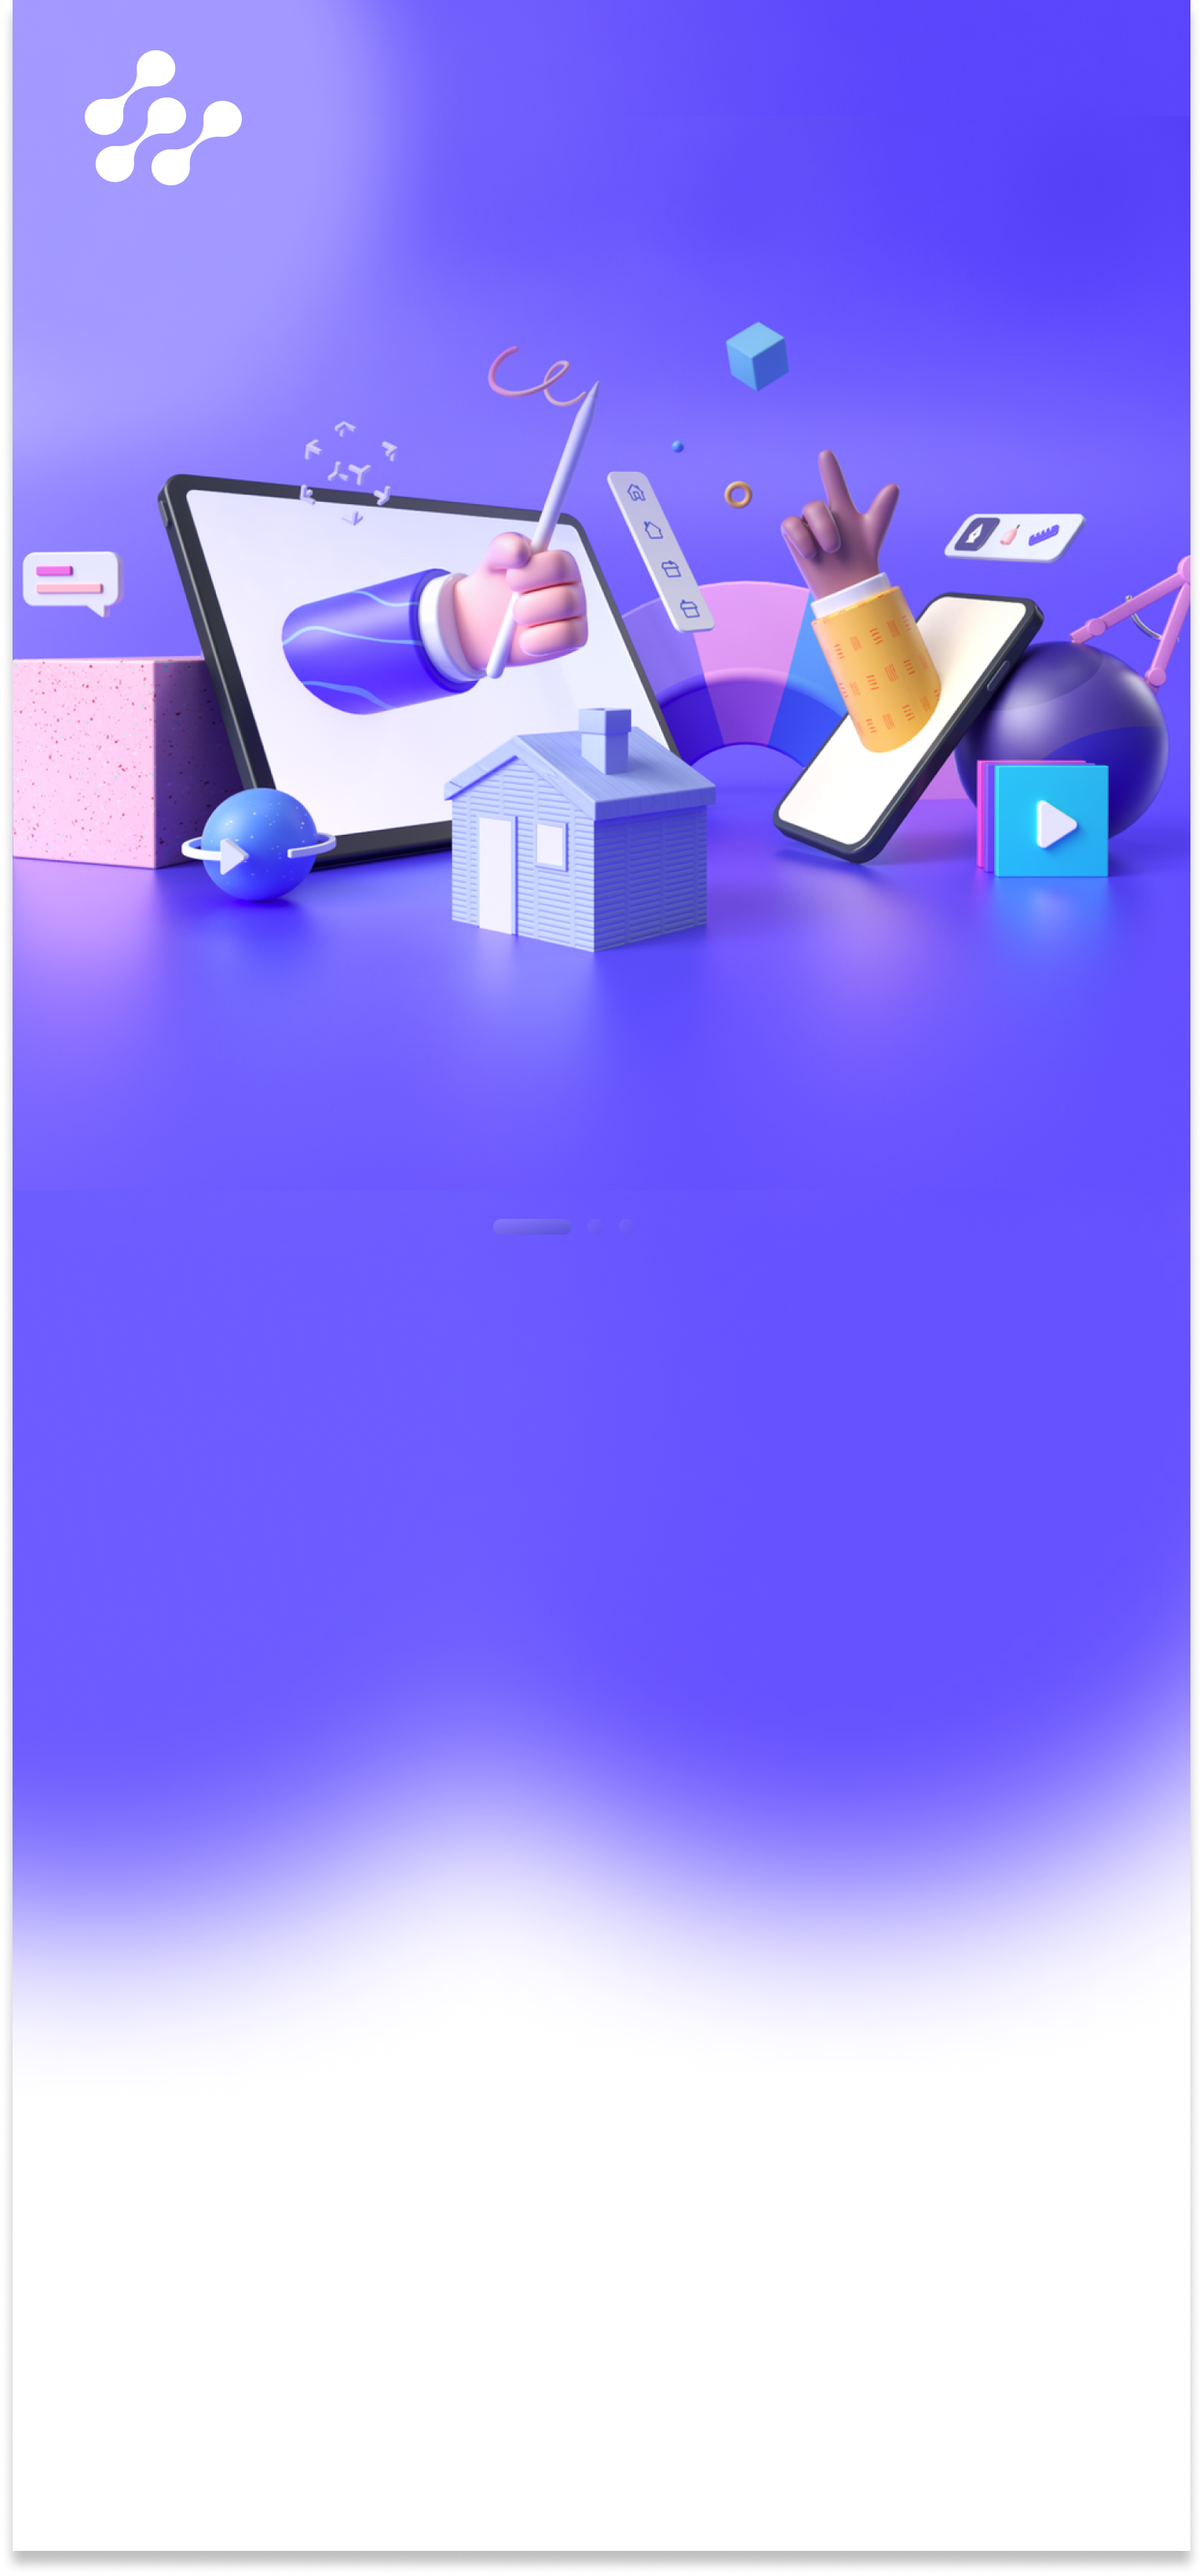
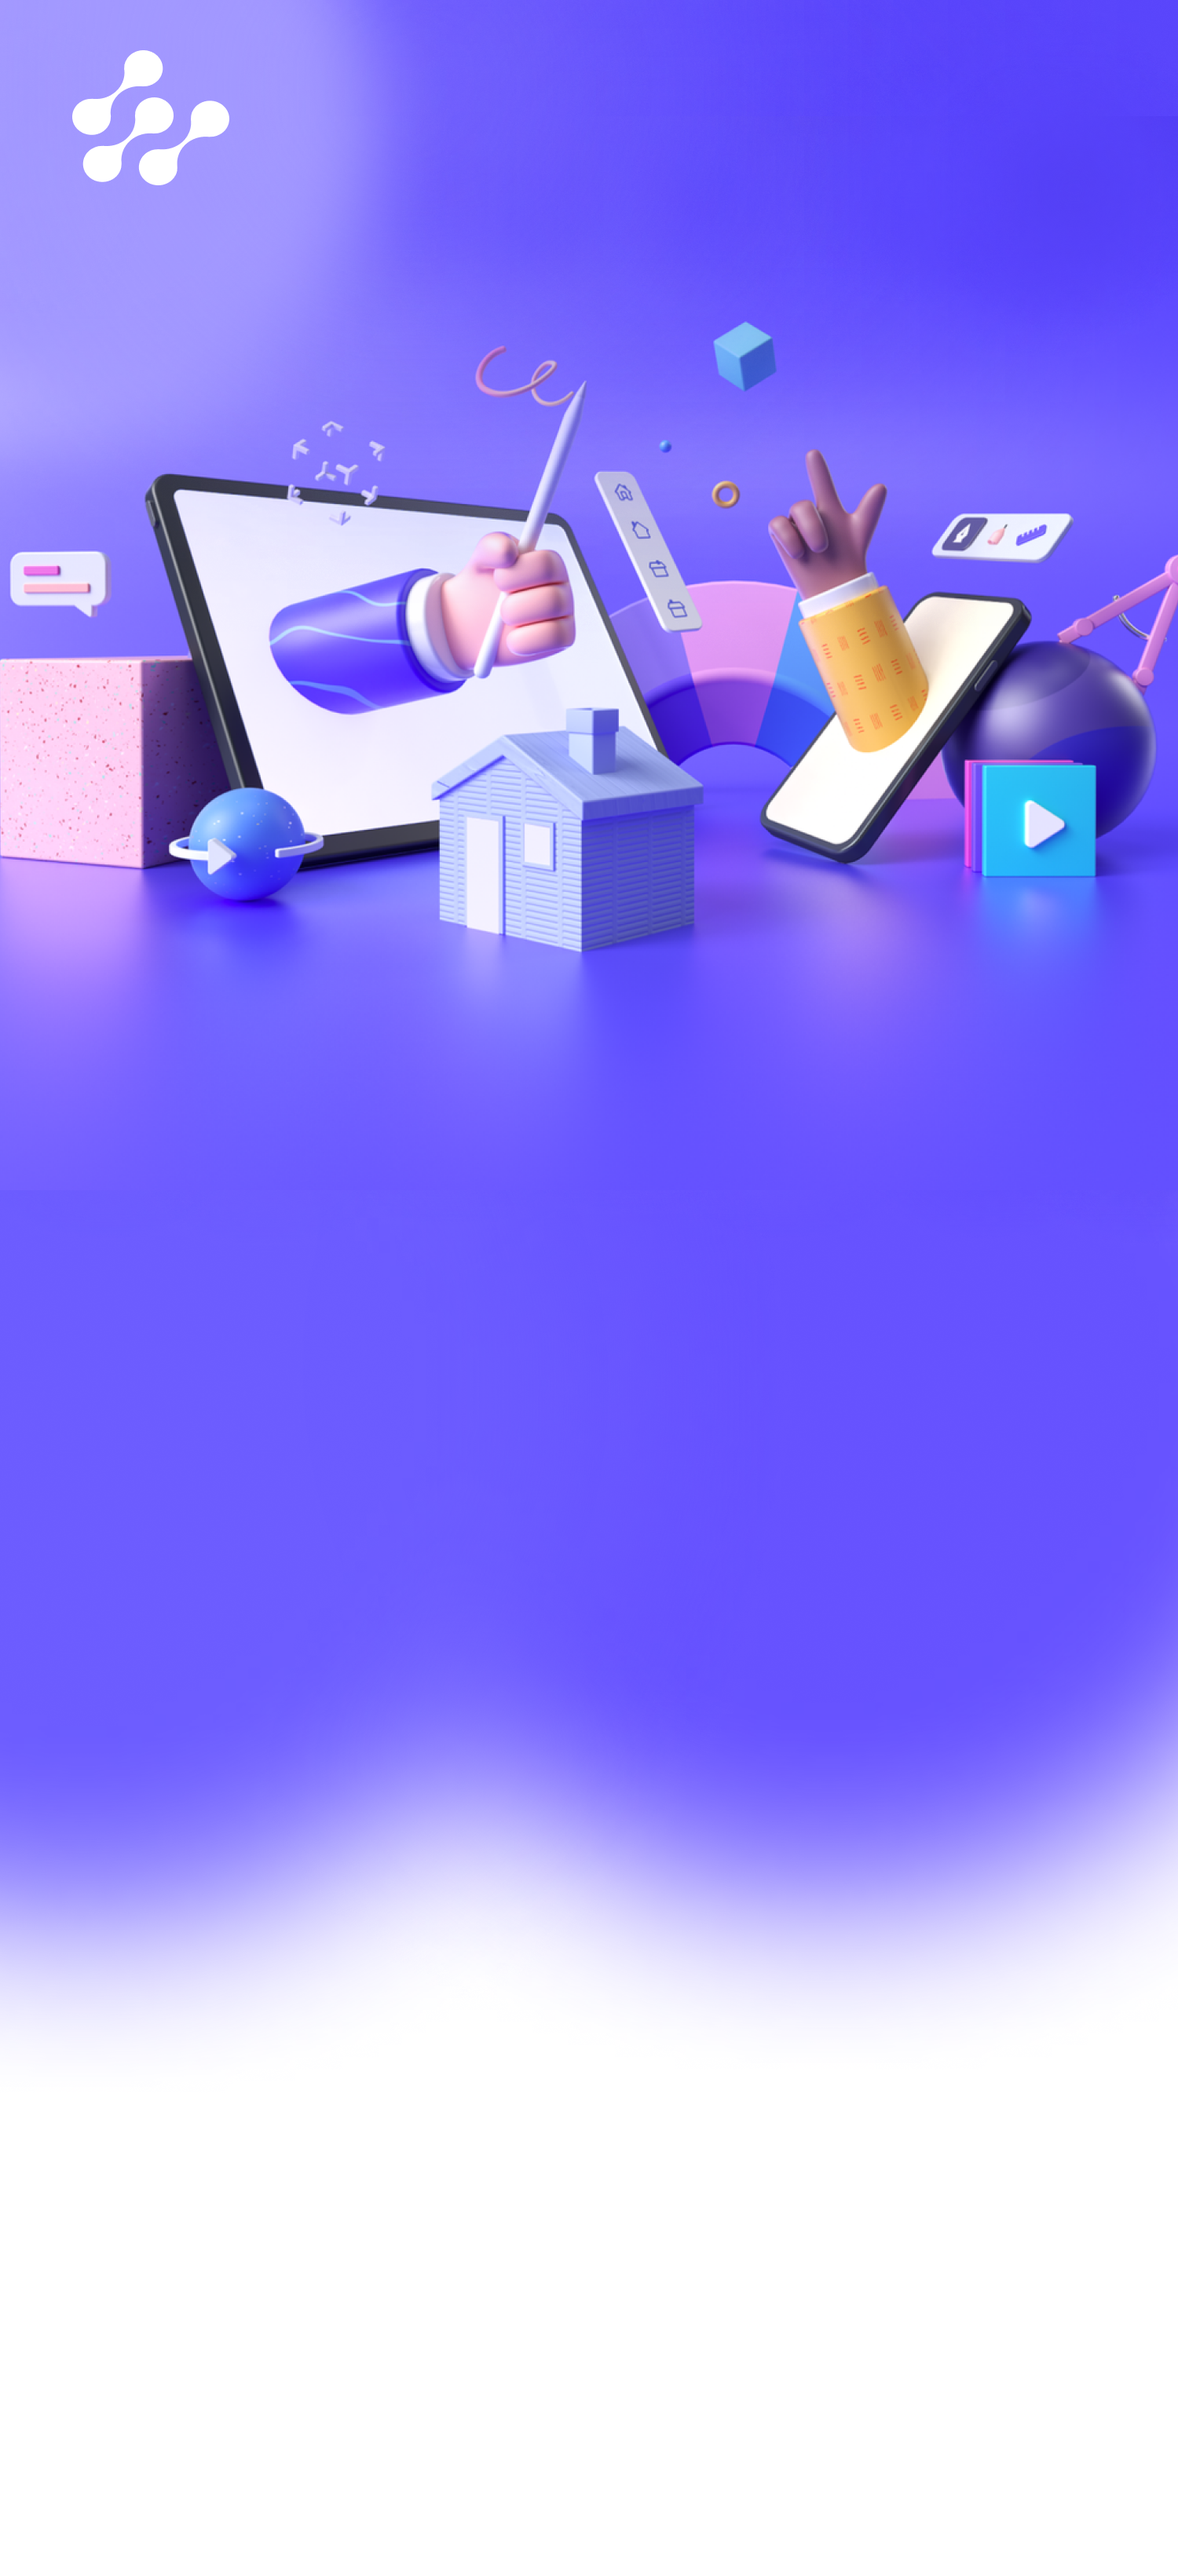
feat: 온보딩 화면 슬라이드 구현 완료

diff --git a/src/pages/Onboarding.js b/src/pages/Onboarding.js
@@ -1,0 +1,224 @@
+import React, { useState, useRef, useEffect } from "react";
+import { useNavigate } from "react-router-dom";
+import styled, { css, keyframes } from 'styled-components';
+import OnboardItem from "../components/OnboardItem";
+
+const onboardItemList = [
+    {
+        OnboardImgSrc: process.env.PUBLIC_URL + `assets/images/onboard-background.png`,
+        title: `Task Management`,
+        prevDesc: `Let's create a `,
+        colorDesc: `space`,
+        nextDesc: ` for your workflows.`
+    },
+    {
+        OnboardImgSrc: process.env.PUBLIC_URL + `assets/images/onboard-background2.png`,
+        title: 'Task Management',
+        prevDesc: `Work more `,
+        colorDesc: `Structured`,
+        nextDesc: ` and Organized 👌`
+    },
+    {
+        OnboardImgSrc: process.env.PUBLIC_URL + `assets/images/onboard-background3.png`,
+        title: 'Task Management',
+        prevDesc: `Manage your `,
+        colorDesc: `Tasks`,
+        nextDesc: ` quickly for Results✌`
+    }
+]
+
+const slideNextAnimation = keyframes`
+0% {
+  opacity: 1;
+  transform: translateX(0vw);
+}
+
+100%{
+  opacity: 1;
+  transform: translateX(-100vw);
+}
+`;
+
+const Onboard = styled.div`
+`;
+
+const OnePageOnboardItem = styled(OnboardItem)`
+    width: 100vw;
+    height: 81.5vh;
+    position: absolute;
+    left: 0;
+    top:0;
+    visibility: visible; 
+
+    &.slide-next {
+        visibility: hidden; 
+    }
+
+`;
+
+const SlideContainer = styled.div`
+    display: flex;
+    width: 300vw;
+    height: 81.5vh;
+    position: relative;
+    left: -100vw;
+    visibility: hidden;  
+    
+    z-index: 3;
+
+    &.slide-next {
+        visibility: visible; 
+        animation: ${slideNextAnimation} 2s forwards;
+        animation-timing-function: cubic-bezier(0.645, 0.045, 0.355, 1.000); 
+    }
+
+`;
+
+const SliderButtons = styled.div`
+    width: 50px;
+    height: 8px;
+    display: flex;
+    justify-content: space-between;
+    margin: 25px 0px 0px 30px;
+`;
+
+const SliderButton = styled.button`
+    border: none;
+    border-radius: 4px;
+    width: 8px;
+    height: 8px;
+    padding: 0;
+
+    ${({ current }) => {
+        return current &&
+            (
+                css`
+                    width: 20px;
+                    background: #756EF3;  
+                `
+            )
+    }
+    }
+`;
+
+const SkipButton = styled.button`
+    color: #002055;
+    text-align: center;
+    font-family: Poppins;
+    font-size: 14px;
+    font-style: normal;
+    font-weight: 400;
+    line-height: 24px; 
+    margin: 52px 0px 0px 30px;
+    border: none;
+    padding: 0;
+    background-color: transparent;
+`;
+
+const BottomBgImg = styled.img`
+    position: absolute;
+    bottom: 0px;
+    right: 0px;
+    width: 100px;
+`;
+
+const NextButton = styled.button`
+    position: absolute;
+    bottom: 42px;
+    right: 21px;
+    width: 24px;
+    height: 24px;
+    z-index: 2;
+    display: flex;
+    justify-content: center;
+    align-items: center;
+    border: none;
+    padding: 0;
+    background-color: transparent;
+`;
+
+const NextImg = styled.img`
+    width: 100%;
+    height: 100%;
+`;
+
+const Onboarding = () => {
+    const navigate = useNavigate();
+
+    const onboardItemRef = useRef();
+    const containerRef = useRef();
+
+    const [status, setStatus] = useState({
+        page: 0,
+        swipe: false
+    });
+    const [page, setPage] = useState(0);
+
+    useEffect(() => {
+        if (!onboardItemRef.current) return;
+
+        const callback = (entries) => {
+            entries.forEach((entry) => {
+                if (entry.isIntersecting) {
+                    setStatus((prev) => {
+                        return {
+                            page: prev.page + 1,
+                            swipe: false
+                        };
+                    });
+                }
+            });
+        }
+
+        const options = { root: null, rootMargin: "0px", threshold: 1 };
+        const observer = new IntersectionObserver(callback, options);
+        observer.observe(onboardItemRef.current);
+
+        return () => {
+            observer.disconnect();
+        };
+
+    }, []);
+
+    const handleSwipe = () => {
+        if (!status.swipe && ((page % 3) !== 2)) {
+            setStatus((prev) => {
+                return {
+                    ...prev,
+                    swipe: true
+                };
+            });
+            setPage(page + 1);
+        }
+
+        if (!status.swipe && ((page % 3) === 2)) {
+            navigate("/main");
+        }
+
+    };
+
+    return (
+        <Onboard>
+            <OnePageOnboardItem className={status.swipe && "slide-next"} {...onboardItemList[(page) % 3]} />
+            <SlideContainer className={status.swipe && "slide-next"} ref={containerRef}>
+                {onboardItemList.map((it, idx) => (
+                    <OnboardItem key={idx} {...onboardItemList[(idx + status.page + 2) % 3]} ref={(idx === 2) ? onboardItemRef : null} />
+                ))}
+            </SlideContainer>
+            <SliderButtons>
+                {onboardItemList.map((it, idx) => (
+                    <SliderButton key={idx} current={idx === (page % 3) ? true : false} />
+                ))}
+            </SliderButtons>
+            <SkipButton>
+                Skip
+            </SkipButton>
+            <NextButton onClick={handleSwipe} >
+                <NextImg src={`${process.env.PUBLIC_URL + 'assets/images/next-button.png'}`} alt="next button" />
+            </NextButton>
+            <BottomBgImg src={`${process.env.PUBLIC_URL + 'assets/images/onboard-bottom-background.png'}`} alt="bg img" />
+        </Onboard>
+    );
+};
+
+export default Onboarding;

diff --git a/src/components/OnboardItem.js b/src/components/OnboardItem.js
@@ -1,0 +1,58 @@
+import React, { forwardRef } from "react";
+import styled from 'styled-components';
+
+const OnboardDiv = styled.div`
+    position: relative;
+    width: 100vw;
+    height: 100%;
+`;
+
+const OnboardImg = styled.img`
+    position: absolute;
+    top: 0px;
+    left: 0px;
+    width: 100%;
+    z-index: -1;
+`;
+
+const Title = styled.div`
+    position: relative;
+    top: 75%;
+    color: #756EF3;
+    font-family: Poppins;
+    font-size: 18px;
+    font-style: normal;
+    font-weight: 500;
+    line-height: 18px;
+    margin: 0 0 0 30px;
+`;
+
+const Desc = styled.div`
+    position: relative;
+    top: calc(75% + 18px);
+    color: #002055;
+    font-family: Poppins;
+    font-size: 35px;
+    font-style: normal;
+    font-weight: 400;
+    line-height: 45px; 
+    margin: 0px 30px 0px 30px;
+`;
+
+const Color = styled.span`
+    color: #756EF3;
+    font-weight: 600;
+`;
+
+const OnboardItem = forwardRef(({ className, OnboardImgSrc, title, prevDesc, colorDesc, nextDesc }, ref) => {
+    return (
+        <OnboardDiv className={className} ref={ref}>
+            <OnboardImg src={OnboardImgSrc} />
+            <Title>{title}</Title>
+            <Desc>{prevDesc}<Color>{colorDesc}</Color>{nextDesc}</Desc>
+        </OnboardDiv>
+
+    );
+});
+
+export default OnboardItem;

diff --git a/src/App.js b/src/App.js
@@ -2,12 +2,16 @@ import { Route, Routes } from 'react-router-dom';
 
 import './App.css';
 import Start from './pages/Start';
+import Onboarding from './pages/Onboarding';
+import Home from './pages/Home';
 
 function App() {
   return (
     <div className="App">
       <Routes>
         <Route path="/" element={<Start />} />
+        <Route path="/onboarding" element={<Onboarding />} />
+        <Route path="/home" element={<Home />} />
       </Routes>
     </div>
   );

diff --git a/src/index.js b/src/index.js
@@ -1,3 +1,4 @@
+import './index.css';
 import React from 'react';
 import { createRoot } from 'react-dom/client';
 import { BrowserRouter } from 'react-router-dom';

diff --git a/src/pages/Home.js b/src/pages/Home.js
@@ -1,0 +1,8 @@
+const Home = () => {
+    return (
+        <>
+        </>
+    );
+}
+
+export default Home;
